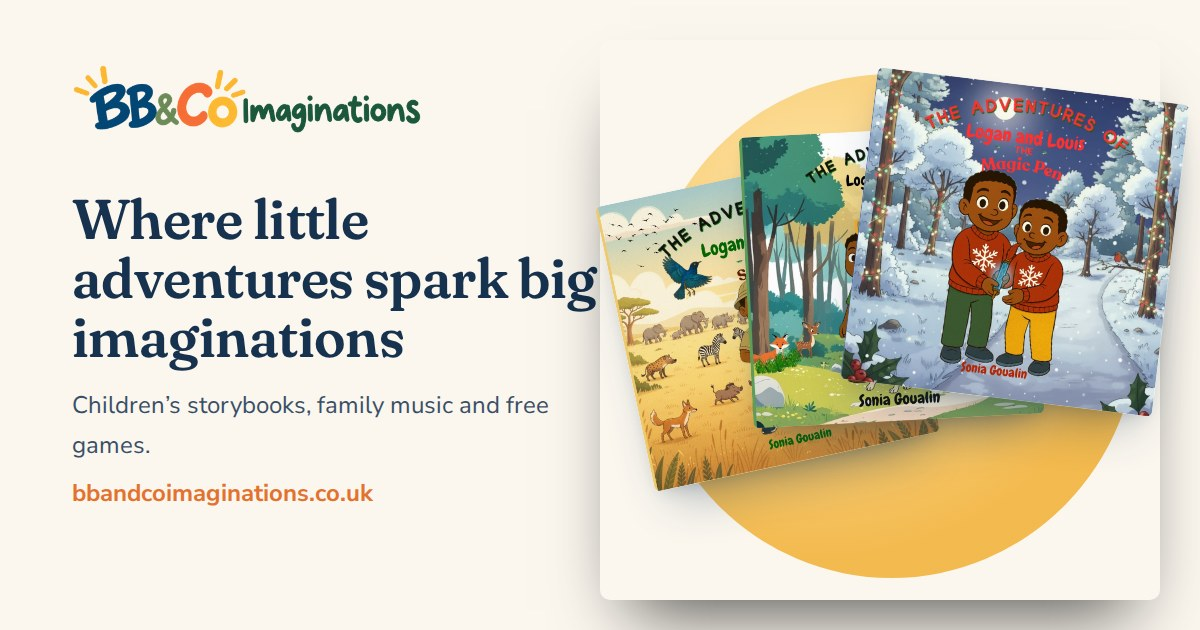
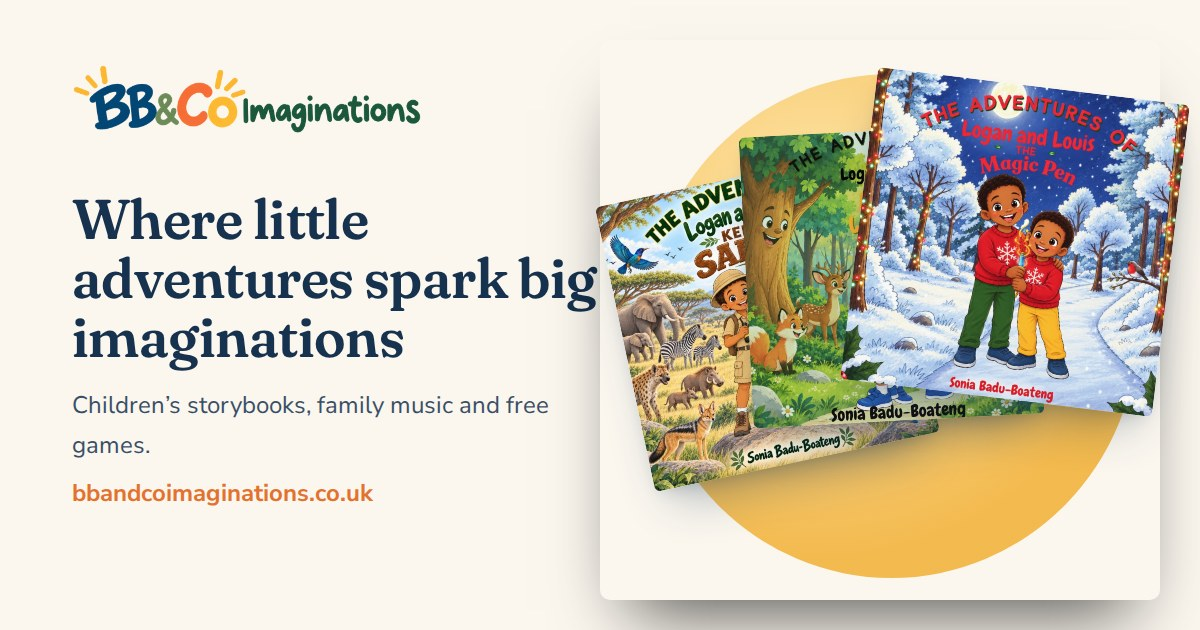
Add files via upload

Changed region(s): [[0.4933, 0.0905, 1.0, 0.7841]]

diff --git a/index.html b/index.html
@@ -14,7 +14,7 @@
 <link rel="icon" href="assets/icon.png" type="image/png">
 <link rel="preload" href="assets/fonts/fraunces.woff2" as="font" type="font/woff2" crossorigin>
 <link rel="preload" href="assets/fonts/nunitosans.woff2" as="font" type="font/woff2" crossorigin>
-<link rel="stylesheet" href="assets/style.css?v=31">
+<link rel="stylesheet" href="assets/style.css?v=32">
 <script type="application/ld+json">{"@context":"https://schema.org","@type":"Organization","name":"BB & Co Imaginations","url":"https://bbandcoimaginations.co.uk/","logo":"https://bbandcoimaginations.co.uk/assets/logo-wide.png","sameAs":["https://www.instagram.com/bbandcoimaginations","https://open.spotify.com/track/6FYsNU51wQm9ZFs7nCrOfL"],"email":"admin@bbandcoimaginations.co.uk"}</script>
 </head>
 <body>
@@ -40,9 +40,9 @@
     </div>
     <div class="hero-art" aria-hidden="true">
       <div class="disc"></div>
-      <img class="fan fan-1" src="assets/covers/kenya-safari.jpg" alt="">
-      <img class="fan fan-2" src="assets/covers/lost-in-the-woods.jpg" alt="">
-      <img class="fan fan-3" src="assets/covers/magic-pen.jpg" alt="">
+      <img class="fan fan-1" src="assets/covers/kenya-safari-v2.jpg" alt="">
+      <img class="fan fan-2" src="assets/covers/lost-in-the-woods-v2.jpg" alt="">
+      <img class="fan fan-3" src="assets/covers/magic-pen-v2.jpg" alt="">
     </div>
   </div>
 </section>
@@ -51,7 +51,7 @@
 <section class="feature">
   <div class="wrap feature-grid">
     <div class="feature-art">
-      <img class="cover cover-lg" src="assets/covers/magic-pen.jpg" alt="Cover of The Adventures of Logan and Louis: The Magic Pen" loading="lazy" width="1000" height="1000">
+      <img class="cover cover-lg" src="assets/covers/magic-pen-v2.jpg" alt="Cover of The Adventures of Logan and Louis: The Magic Pen" loading="lazy" width="1000" height="1000">
     </div>
     <div class="feature-copy">
       <p class="eyebrow">The Christmas story</p>
@@ -59,7 +59,7 @@
       <p class="lede">On a snowy Christmas Eve, Logan and Louis find a pen that makes wishes come true. Snow falls, hot chocolate flows, and the garden fills with surprises, until one wish goes a little too far. A story about family, forgiveness and the joy of sharing.</p>
       <p class="meta">28 pages · Paperback</p>
       <div class="actions">
-        <a class="btn btn-primary" href="https://www.amazon.co.uk/dp/B0G26KG31L" target="_blank" rel="noopener">Buy on Amazon</a>
+        <a class="btn btn-primary" href="https://www.amazon.co.uk/dp/B0HLS5GCBL" target="_blank" rel="noopener">Buy on Amazon</a>
         <a class="btn btn-ghost" href="books.html">See all four books</a>
       </div>
     </div>
@@ -73,7 +73,7 @@
       <p class="section-lede">Two brothers, one very big imagination. Every story is inspired by a real family moment, with a twist of magic.</p>
     </div>
     <div class="cover-grid">
-      <a class="cover-tile" href="https://www.amazon.co.uk/dp/B0G26KG31L" target="_blank" rel="noopener"><img class="cover" src="assets/covers/magic-pen.jpg" alt="Cover of The Adventures of Logan and Louis: The Magic Pen" loading="lazy" width="1000" height="1000"><span class="tile-title">The Magic Pen</span><span class="tile-line">A snowy Christmas Eve, a mysterious pen, and one wish too many.</span></a><a class="cover-tile" href="https://www.amazon.co.uk/dp/B0G2JV918W" target="_blank" rel="noopener"><img class="cover" src="assets/covers/lost-in-the-woods.jpg" alt="Cover of The Adventures of Logan and Louis: Lost in the Woods" loading="lazy" width="1000" height="1000"><span class="tile-title">Lost in the Woods</span><span class="tile-line">Even when you are lost, love and friendship can lead you home.</span></a><a class="cover-tile" href="https://www.amazon.co.uk/dp/B0G2J3PNXP" target="_blank" rel="noopener"><img class="cover" src="assets/covers/kenya-safari.jpg" alt="Cover of The Adventures of Logan and Louis: Kenya Safari" loading="lazy" width="1000" height="1000"><span class="tile-title">Kenya Safari</span><span class="tile-line">From the streets of Nairobi to the wild plains along the Equator.</span></a><a class="cover-tile" href="https://www.amazon.co.uk/dp/B0GW8JRQBG" target="_blank" rel="noopener"><img class="cover" src="assets/covers/easter-rescue.jpg" alt="Cover of The Adventures of Logan and Louis: The Great Easter Rescue" loading="lazy" width="1000" height="1000"><span class="tile-title">The Great Easter Rescue</span><span class="tile-line">When all the chocolate in the world disappears, two brothers must save Easter.</span></a>
+      <a class="cover-tile" href="https://www.amazon.co.uk/dp/B0HLS5GCBL" target="_blank" rel="noopener"><img class="cover" src="assets/covers/magic-pen-v2.jpg" alt="Cover of The Adventures of Logan and Louis: The Magic Pen" loading="lazy" width="1000" height="1000"><span class="tile-title">The Magic Pen</span><span class="tile-line">A snowy Christmas Eve, a mysterious pen, and one wish too many.</span></a><a class="cover-tile" href="https://www.amazon.co.uk/dp/B0HLSBH7GS" target="_blank" rel="noopener"><img class="cover" src="assets/covers/lost-in-the-woods-v2.jpg" alt="Cover of The Adventures of Logan and Louis: Lost in the Woods" loading="lazy" width="1000" height="1000"><span class="tile-title">Lost in the Woods</span><span class="tile-line">Even when you are lost, love and friendship can lead you home.</span></a><a class="cover-tile" href="https://www.amazon.co.uk/dp/B0HLYSH8HL" target="_blank" rel="noopener"><img class="cover" src="assets/covers/kenya-safari-v2.jpg" alt="Cover of The Adventures of Logan and Louis: Kenya Safari" loading="lazy" width="1000" height="1000"><span class="tile-title">Kenya Safari</span><span class="tile-line">From the streets of Nairobi to the wild plains along the Equator.</span></a><a class="cover-tile" href="https://www.amazon.co.uk/dp/B0GW8JRQBG" target="_blank" rel="noopener"><img class="cover" src="assets/covers/easter-rescue-v2.jpg" alt="Cover of The Adventures of Logan and Louis: The Great Easter Rescue" loading="lazy" width="1000" height="1000"><span class="tile-title">The Great Easter Rescue</span><span class="tile-line">When all the chocolate in the world disappears, two brothers must save Easter.</span></a>
     </div>
     <div class="actions center"><a class="btn btn-ghost" href="books.html">Browse the collection</a></div>
   </div>

diff --git a/books.html b/books.html
@@ -14,7 +14,7 @@
 <link rel="icon" href="assets/icon.png" type="image/png">
 <link rel="preload" href="assets/fonts/fraunces.woff2" as="font" type="font/woff2" crossorigin>
 <link rel="preload" href="assets/fonts/nunitosans.woff2" as="font" type="font/woff2" crossorigin>
-<link rel="stylesheet" href="assets/style.css?v=31">
+<link rel="stylesheet" href="assets/style.css?v=32">
 
 </head>
 <body>
@@ -38,34 +38,34 @@
 <section class="shelf-section">
   <div class="wrap shelf">
     <article class="book">
-      <a class="book-cover" href="https://www.amazon.co.uk/dp/B0G26KG31L" target="_blank" rel="noopener"><img class="cover" src="assets/covers/magic-pen.jpg" alt="Cover of The Adventures of Logan and Louis: The Magic Pen" loading="lazy" width="1000" height="1000"></a>
+      <a class="book-cover" href="https://www.amazon.co.uk/dp/B0HLS5GCBL" target="_blank" rel="noopener"><img class="cover" src="assets/covers/magic-pen-v2.jpg" alt="Cover of The Adventures of Logan and Louis: The Magic Pen" loading="lazy" width="1000" height="1000"></a>
       <div class="book-body">
         <p class="eyebrow">Christmas</p>
         <h3>The Magic Pen</h3>
         <p class="meta">Paperback · 28 pages</p>
         <p>On a snowy Christmas Eve, Logan and Louis find a pen that makes wishes come true. Snow falls, hot chocolate flows, and the garden fills with surprises, until one wish goes a little too far. A story about family, forgiveness and the joy of sharing.</p>
-        <a class="btn btn-primary btn-sm" href="https://www.amazon.co.uk/dp/B0G26KG31L" target="_blank" rel="noopener">Buy on Amazon</a>
+        <a class="btn btn-primary btn-sm" href="https://www.amazon.co.uk/dp/B0HLS5GCBL" target="_blank" rel="noopener">Buy on Amazon</a>
       </div>
     </article><article class="book">
-      <a class="book-cover" href="https://www.amazon.co.uk/dp/B0G2JV918W" target="_blank" rel="noopener"><img class="cover" src="assets/covers/lost-in-the-woods.jpg" alt="Cover of The Adventures of Logan and Louis: Lost in the Woods" loading="lazy" width="1000" height="1000"></a>
+      <a class="book-cover" href="https://www.amazon.co.uk/dp/B0HLSBH7GS" target="_blank" rel="noopener"><img class="cover" src="assets/covers/lost-in-the-woods-v2.jpg" alt="Cover of The Adventures of Logan and Louis: Lost in the Woods" loading="lazy" width="1000" height="1000"></a>
       <div class="book-body">
         <p class="eyebrow">Adventure</p>
         <h3>Lost in the Woods</h3>
         <p class="meta">Paperback · 27 pages</p>
         <p>When the boys head into the woods to find their dog, BB, an ordinary day becomes an adventure. With courage, teamwork and a few clever clues, they learn that even when you are lost, love and friendship can lead you home.</p>
-        <a class="btn btn-primary btn-sm" href="https://www.amazon.co.uk/dp/B0G2JV918W" target="_blank" rel="noopener">Buy on Amazon</a>
+        <a class="btn btn-primary btn-sm" href="https://www.amazon.co.uk/dp/B0HLSBH7GS" target="_blank" rel="noopener">Buy on Amazon</a>
       </div>
     </article><article class="book">
-      <a class="book-cover" href="https://www.amazon.co.uk/dp/B0G2J3PNXP" target="_blank" rel="noopener"><img class="cover" src="assets/covers/kenya-safari.jpg" alt="Cover of The Adventures of Logan and Louis: Kenya Safari" loading="lazy" width="1000" height="1000"></a>
+      <a class="book-cover" href="https://www.amazon.co.uk/dp/B0HLYSH8HL" target="_blank" rel="noopener"><img class="cover" src="assets/covers/kenya-safari-v2.jpg" alt="Cover of The Adventures of Logan and Louis: Kenya Safari" loading="lazy" width="1000" height="1000"></a>
       <div class="book-body">
         <p class="eyebrow">Travel</p>
         <h3>Kenya Safari</h3>
         <p class="meta">Paperback · 29 pages</p>
         <p>From the busy streets of Nairobi to the wild plains of lions, elephants and giraffes, Logan and Louis discover amazing animals, learn new Swahili words and explore life along the Equator.</p>
-        <a class="btn btn-primary btn-sm" href="https://www.amazon.co.uk/dp/B0G2J3PNXP" target="_blank" rel="noopener">Buy on Amazon</a>
+        <a class="btn btn-primary btn-sm" href="https://www.amazon.co.uk/dp/B0HLYSH8HL" target="_blank" rel="noopener">Buy on Amazon</a>
       </div>
     </article><article class="book">
-      <a class="book-cover" href="https://www.amazon.co.uk/dp/B0GW8JRQBG" target="_blank" rel="noopener"><img class="cover" src="assets/covers/easter-rescue.jpg" alt="Cover of The Adventures of Logan and Louis: The Great Easter Rescue" loading="lazy" width="1000" height="1000"></a>
+      <a class="book-cover" href="https://www.amazon.co.uk/dp/B0GW8JRQBG" target="_blank" rel="noopener"><img class="cover" src="assets/covers/easter-rescue-v2.jpg" alt="Cover of The Adventures of Logan and Louis: The Great Easter Rescue" loading="lazy" width="1000" height="1000"></a>
       <div class="book-body">
         <p class="eyebrow">Easter</p>
         <h3>The Great Easter Rescue</h3>

diff --git a/lost-in-the-woods.html b/lost-in-the-woods.html
@@ -14,7 +14,7 @@
 <link rel="icon" href="assets/icon.png" type="image/png">
 <link rel="preload" href="assets/fonts/fraunces.woff2" as="font" type="font/woff2" crossorigin>
 <link rel="preload" href="assets/fonts/nunitosans.woff2" as="font" type="font/woff2" crossorigin>
-<link rel="stylesheet" href="assets/style.css?v=31">
+<link rel="stylesheet" href="assets/style.css?v=32">
 
 </head>
 <body>
@@ -53,7 +53,7 @@
     </div>
   </div>
 </section>
-<section class="note-band"><div class="wrap"><a class="bookcard-wide" href="https://www.amazon.co.uk/dp/B0G2JV918W" target="_blank" rel="noopener"><img src="assets/covers/lost-in-the-woods.jpg" alt="" loading="lazy"><div><p class="eyebrow">Read the story it comes from</p><h3>The Adventures of Logan and Louis: Lost in the Woods</h3><p class="meta">Paperback on Amazon UK</p></div></a></div></section>
+<section class="note-band"><div class="wrap"><a class="bookcard-wide" href="https://www.amazon.co.uk/dp/B0HLSBH7GS" target="_blank" rel="noopener"><img src="assets/covers/lost-in-the-woods-v2.jpg" alt="" loading="lazy"><div><p class="eyebrow">Read the story it comes from</p><h3>The Adventures of Logan and Louis: Lost in the Woods</h3><p class="meta">Paperback on Amazon UK</p></div></a></div></section>
 
 <section class="signup">
   <div class="wrap signup-grid">

diff --git a/book-woods.html b/book-woods.html
@@ -1,0 +1,1 @@
+<!doctype html><html lang="en-GB"><head><meta charset="utf-8"><title>BB & Co Imaginations</title><meta name="robots" content="noindex"><meta http-equiv="refresh" content="0;url=/lost-in-the-woods.html"><script type='module' src='https://static.cloudflareinsights.com/beacon.min.js' data-cf-beacon='{"token": "405cdb0cdcbc44d790ac322c1097422a"}'></script></head><body style="font-family:sans-serif;padding:24px">Taking you to the game… <a href="/lost-in-the-woods.html">Tap here if nothing happens</a>.</body></html>

diff --git a/book-easter.html b/book-easter.html
@@ -1,0 +1,1 @@
+<!doctype html><html lang="en-GB"><head><meta charset="utf-8"><title>BB & Co Imaginations</title><meta name="robots" content="noindex"><meta http-equiv="refresh" content="0;url=/games.html"><script type='module' src='https://static.cloudflareinsights.com/beacon.min.js' data-cf-beacon='{"token": "405cdb0cdcbc44d790ac322c1097422a"}'></script></head><body style="font-family:sans-serif;padding:24px">Taking you to the games… <a href="/games.html">Tap here if nothing happens</a>.</body></html>

diff --git a/book-pen.html b/book-pen.html
@@ -1,0 +1,1 @@
+<!doctype html><html lang="en-GB"><head><meta charset="utf-8"><title>BB & Co Imaginations</title><meta name="robots" content="noindex"><meta http-equiv="refresh" content="0;url=/games.html"><script type='module' src='https://static.cloudflareinsights.com/beacon.min.js' data-cf-beacon='{"token": "405cdb0cdcbc44d790ac322c1097422a"}'></script></head><body style="font-family:sans-serif;padding:24px">Taking you to the games… <a href="/games.html">Tap here if nothing happens</a>.</body></html>

diff --git a/book-safari.html b/book-safari.html
@@ -1,0 +1,1 @@
+<!doctype html><html lang="en-GB"><head><meta charset="utf-8"><title>BB & Co Imaginations</title><meta name="robots" content="noindex"><meta http-equiv="refresh" content="0;url=/games.html"><script type='module' src='https://static.cloudflareinsights.com/beacon.min.js' data-cf-beacon='{"token": "405cdb0cdcbc44d790ac322c1097422a"}'></script></head><body style="font-family:sans-serif;padding:24px">Taking you to the games… <a href="/games.html">Tap here if nothing happens</a>.</body></html>

diff --git a/blog/2026-09-christmas-markets.html b/blog/2026-09-christmas-markets.html
@@ -14,7 +14,7 @@
 <link rel="icon" href="../assets/icon.png" type="image/png">
 <link rel="preload" href="../assets/fonts/fraunces.woff2" as="font" type="font/woff2" crossorigin>
 <link rel="preload" href="../assets/fonts/nunitosans.woff2" as="font" type="font/woff2" crossorigin>
-<link rel="stylesheet" href="../assets/style.css?v=31">
+<link rel="stylesheet" href="../assets/style.css?v=32">
 
 </head>
 <body>

diff --git a/blog/index.html b/blog/index.html
@@ -14,7 +14,7 @@
 <link rel="icon" href="../assets/icon.png" type="image/png">
 <link rel="preload" href="../assets/fonts/fraunces.woff2" as="font" type="font/woff2" crossorigin>
 <link rel="preload" href="../assets/fonts/nunitosans.woff2" as="font" type="font/woff2" crossorigin>
-<link rel="stylesheet" href="../assets/style.css?v=31">
+<link rel="stylesheet" href="../assets/style.css?v=32">
 
 </head>
 <body>

diff --git a/about.html b/about.html
@@ -14,7 +14,7 @@
 <link rel="icon" href="assets/icon.png" type="image/png">
 <link rel="preload" href="assets/fonts/fraunces.woff2" as="font" type="font/woff2" crossorigin>
 <link rel="preload" href="assets/fonts/nunitosans.woff2" as="font" type="font/woff2" crossorigin>
-<link rel="stylesheet" href="assets/style.css?v=31">
+<link rel="stylesheet" href="assets/style.css?v=32">
 
 </head>
 <body>

diff --git a/games.html b/games.html
@@ -14,7 +14,7 @@
 <link rel="icon" href="assets/icon.png" type="image/png">
 <link rel="preload" href="assets/fonts/fraunces.woff2" as="font" type="font/woff2" crossorigin>
 <link rel="preload" href="assets/fonts/nunitosans.woff2" as="font" type="font/woff2" crossorigin>
-<link rel="stylesheet" href="assets/style.css?v=31">
+<link rel="stylesheet" href="assets/style.css?v=32">
 
 </head>
 <body>

diff --git a/little-cook.html b/little-cook.html
@@ -14,7 +14,7 @@
 <link rel="icon" href="assets/icon.png" type="image/png">
 <link rel="preload" href="assets/fonts/fraunces.woff2" as="font" type="font/woff2" crossorigin>
 <link rel="preload" href="assets/fonts/nunitosans.woff2" as="font" type="font/woff2" crossorigin>
-<link rel="stylesheet" href="assets/style.css?v=31">
+<link rel="stylesheet" href="assets/style.css?v=32">
 
 </head>
 <body>
